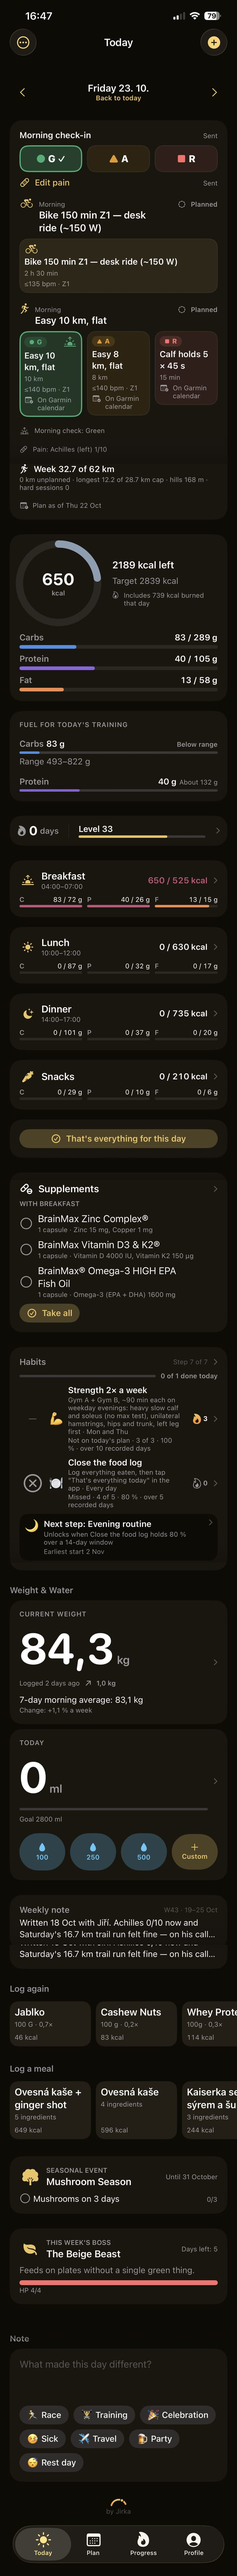
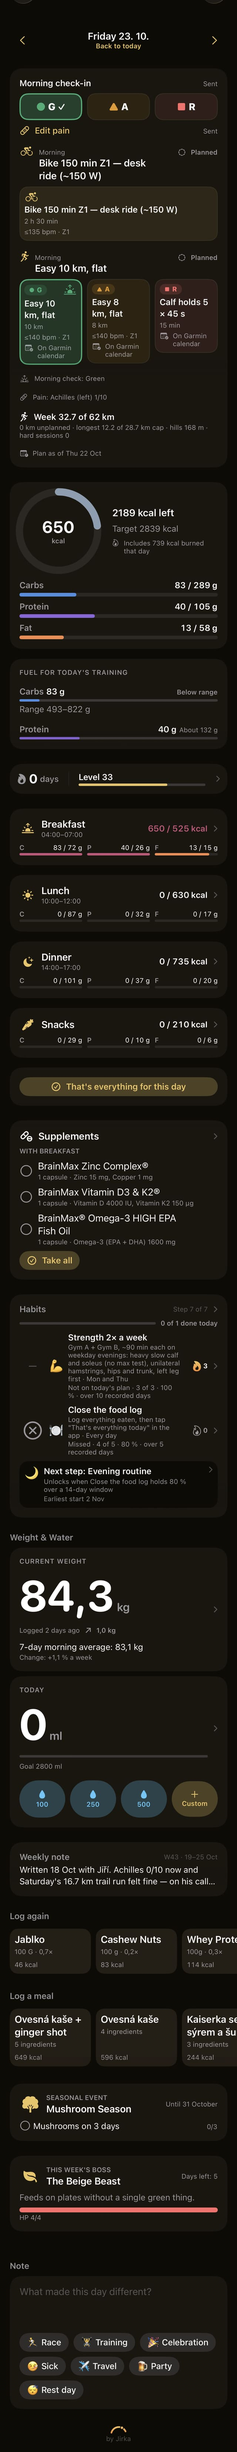
feat: NARUZU video and gallery, Jirka's Arc full-day scroll, 24DS photos and video, CV print link

diff --git a/scripts/projects.js b/scripts/projects.js
@@ -12,9 +12,9 @@ const PROJECTS = [
     status: 'in-progress',
     kind: { en: 'Indoor cycling app', cs: 'Aplikace pro indoor cycling', es: 'App de ciclismo indoor' },
     details: {
-      en: 'NARUZU is still in active development: the core ride loop, Bluetooth, GPX riding, structured workouts and the customisable HUD work today, and the iPhone version comes later. It is a private project, so there is no public repository; the screenshots show the current state of the Windows build.',
-      cs: 'NARUZU je stále v aktivním vývoji: základní jízda, Bluetooth, jízda po GPX, strukturované tréninky a nastavitelné HUD už fungují, verze pro iPhone přijde později. Je to soukromý projekt, takže veřejný repozitář neexistuje; snímky ukazují aktuální stav verze pro Windows.',
-      es: 'NARUZU sigue en desarrollo activo: el bucle de salida, Bluetooth, rodaje con GPX, entrenamientos estructurados y el HUD personalizable ya funcionan; la versión para iPhone llegará más adelante. Es un proyecto privado, así que no hay repositorio público; las capturas muestran el estado actual de la versión de Windows.'
+      en: 'NARUZU is still in active development, and it is a private project, so there is no public repository. The core ride loop, Bluetooth trainer and heart-rate pairing, GPX riding, structured workouts and the customisable HUD work today; the iPhone version comes later. The home screen opens on a featured climb such as Praděd, the garage lets you dress the rider and pick the bike, a loading screen shows the climb profile while the world is prepared, and then you ride. Progress keeps levels, XP, challenges and the globe of countries you have ridden. The gallery below shows the current state of the Windows build, and the video is a short tour.',
+      cs: 'NARUZU je stále v aktivním vývoji a je to soukromý projekt, takže veřejný repozitář neexistuje. Základní jízda, párování Bluetooth trenažéru a hrudního pásu, jízda po GPX, strukturované tréninky a nastavitelné HUD už fungují; verze pro iPhone přijde později. Domovská obrazovka se otevře vybraným stoupáním, třeba Pradědem, v garáži oblečete jezdce a vyberete kolo, načítací obrazovka ukáže profil stoupání, zatímco se připravuje svět, a pak se jede. Progress drží levely, XP, výzvy a glóbus projetých zemí. Galerie níže ukazuje aktuální stav verze pro Windows a video je krátká prohlídka.',
+      es: 'NARUZU sigue en desarrollo activo y es un proyecto privado, así que no hay repositorio público. El bucle de salida, el emparejamiento del rodillo Bluetooth y la banda de pulso, el rodaje con GPX, los entrenamientos estructurados y el HUD personalizable ya funcionan; la versión para iPhone llegará más adelante. La pantalla de inicio se abre con un ascenso destacado, como Praděd, en el garaje vistes al ciclista y eliges la bici, una pantalla de carga muestra el perfil del ascenso mientras se prepara el mundo, y después se rueda. Progress guarda niveles, XP, retos y el globo de países recorridos. La galería de abajo muestra el estado actual de la versión de Windows y el vídeo es un recorrido corto.'
     },
     title: 'NARUZU',
     subtitle: {
@@ -32,10 +32,16 @@ const PROJECTS = [
       cs: ['Chytrý trenažér a tepové senzory, živý výkon, kadence a tepové zóny', 'Slavná stoupání jako Alpe d\'Huez, volná jízda po vlastních GPX trasách a strukturované tréninky', 'Nastavitelné HUD, jezdci kolem, osobní ghosti a lokální segmenty', 'XP, levely, výzvy a glóbus projetých zemí'],
       es: ['Rodillo inteligente y sensores de pulso, con potencia, cadencia y zonas de pulso en vivo', 'Ascensos famosos como Alpe d\'Huez, rodaje libre con tus rutas GPX y entrenamientos estructurados', 'HUD personalizable, ciclistas cercanos, ghosts personales y segmentos locales', 'XP, niveles, retos y un globo de los países recorridos']
     },
+    video: { id: '_H9zhEoG7vc', url: 'https://youtu.be/_H9zhEoG7vc', poster: '../images/projects/naruzu-video.jpg' },
     images: [
-      // TODO(owner): a newer menu screenshot is coming; it replaces the progress shot below.
-      { src: '../images/projects/naruzu-ride.jpg', alt: { en: 'NARUZU ride view: a road with live speed, power, cadence and heart-rate HUD, a minimap and ride controls', cs: 'Jízda v NARUZU: silnice s živým HUD (rychlost, výkon, kadence, tep), minimapou a ovládáním jízdy', es: 'Vista de salida en NARUZU: una carretera con HUD en vivo (velocidad, potencia, cadencia, pulso), minimapa y controles' } },
-      { src: '../images/projects/naruzu-progress.jpg', alt: { en: 'NARUZU Progress screen: level, XP and recent rides next to the main menu', cs: 'Obrazovka Progress v NARUZU: level, XP a poslední jízdy vedle hlavního menu', es: 'Pantalla Progress de NARUZU: nivel, XP y salidas recientes junto al menú principal' } }
+      { src: '../images/projects/naruzu-menu.jpg', alt: { en: 'NARUZU main menu with the featured Praděd climb', cs: 'Hlavní menu NARUZU s vybraným stoupáním na Praděd', es: 'Menú principal de NARUZU con el ascenso destacado a Praděd' } },
+      { src: '../images/projects/naruzu-garage.jpg', alt: { en: 'NARUZU garage with the rider on the bike', cs: 'Garáž v NARUZU s jezdcem na kole', es: 'Garaje de NARUZU con el ciclista en la bici' } },
+      { src: '../images/projects/naruzu-loading.jpg', alt: { en: 'NARUZU loading screen with the climb profile', cs: 'Načítací obrazovka NARUZU s profilem stoupání', es: 'Pantalla de carga de NARUZU con el perfil del ascenso' } },
+      { src: '../images/projects/naruzu-ride-1.jpg', alt: { en: 'Riding in NARUZU', cs: 'Jízda v NARUZU', es: 'Rodando en NARUZU' } },
+      { src: '../images/projects/naruzu-preview.jpg', alt: { en: 'NARUZU rider and bike preview', cs: 'Náhled jezdce a kola v NARUZU', es: 'Vista previa del ciclista y la bici en NARUZU' } },
+      { src: '../images/projects/naruzu-ride-2.jpg', alt: { en: 'Riding in NARUZU, second view', cs: 'Jízda v NARUZU, druhý záběr', es: 'Rodando en NARUZU, segunda vista' } },
+      { src: '../images/projects/naruzu-ride-3.jpg', alt: { en: 'Riding in NARUZU, third view', cs: 'Jízda v NARUZU, třetí záběr', es: 'Rodando en NARUZU, tercera vista' } },
+      { src: '../images/projects/naruzu-ride-4.jpg', alt: { en: 'Riding in NARUZU, fourth view', cs: 'Jízda v NARUZU, čtvrtý záběr', es: 'Rodando en NARUZU, cuarta vista' } }
     ]
   },
   {
@@ -293,19 +299,19 @@ const VAULT_AUTOMATIONS = [
 const PROJECTS_UI = {
   en: {
     vaultPrivate: 'Private vault — it holds personal data',
-    details: 'Details', close: 'Close', repo: 'View on GitHub', highlights: 'Highlights', screenshots: 'Screenshots', dragHint: 'Drag or scroll to see the whole day',
+    details: 'Details', close: 'Close', repo: 'View on GitHub', highlights: 'Highlights', screenshots: 'Screenshots', dragHint: 'Drag or scroll to see the whole day', watch: 'Watch the video',
     viewer: 'Image viewer', prev: 'Previous image', next: 'Next image',
     status: { 'in-progress': 'In development', 'in-use': 'In use', done: 'Finished' }
   },
   cs: {
     vaultPrivate: 'Soukromý vault — obsahuje osobní data',
-    details: 'Podrobnosti', close: 'Zavřít', repo: 'Zobrazit na GitHubu', highlights: 'Hlavní body', screenshots: 'Snímky obrazovky', dragHint: 'Tažením nebo rolováním projdete celý den',
+    details: 'Podrobnosti', close: 'Zavřít', repo: 'Zobrazit na GitHubu', highlights: 'Hlavní body', screenshots: 'Snímky obrazovky', dragHint: 'Tažením nebo rolováním projdete celý den', watch: 'Přehrát video',
     viewer: 'Prohlížeč obrázků', prev: 'Předchozí obrázek', next: 'Další obrázek',
     status: { 'in-progress': 'Ve vývoji', 'in-use': 'V používání', done: 'Dokončeno' }
   },
   es: {
     vaultPrivate: 'Vault privado: contiene datos personales',
-    details: 'Detalles', close: 'Cerrar', repo: 'Ver en GitHub', highlights: 'Puntos clave', screenshots: 'Capturas', dragHint: 'Arrastra o desplaza para ver todo el día',
+    details: 'Detalles', close: 'Cerrar', repo: 'Ver en GitHub', highlights: 'Puntos clave', screenshots: 'Capturas', dragHint: 'Arrastra o desplaza para ver todo el día', watch: 'Ver el vídeo',
     viewer: 'Visor de imágenes', prev: 'Imagen anterior', next: 'Imagen siguiente',
     status: { 'in-progress': 'En desarrollo', 'in-use': 'En uso', done: 'Terminado' }
   }
@@ -327,6 +333,13 @@ function projectImages(project) {
   return project.images || (project.image ? [project.image] : []);
 }
 
+// A video is shown as its YouTube poster with a play badge; the click opens YouTube in a new tab.
+function videoPoster(video, title, ui) {
+  return `<a class="video-poster" href="${video.url}" target="_blank" rel="noopener noreferrer" aria-label="${ui.watch} — ${title}">
+    <img src="${video.poster}" alt="" loading="lazy" decoding="async"><span class="video-poster__play" aria-hidden="true">▶</span>
+    <span class="video-poster__label">${ui.watch} ↗</span></a>`;
+}
+
 function statusPill(project, ui) {
   return project.status
     ? `<span class="project-status project-status--${project.status}">${ui.status[project.status]}</span>`
@@ -337,8 +350,9 @@ function renderProjectCard(project, lang) {
   const ui = PROJECTS_UI[lang];
   let media = '';
   if (project.images) {
-    // the card preview shows at most two shots; the full set opens in the modal
-    media = `<div class="project-card__gallery">${project.images.slice(0, 2).map(img =>
+    // the card preview shows at most two items (the video first, when there is one); the full set opens in the modal
+    const lead = project.video ? `<figure class="project-card__media project-card__media--video">${videoPoster(project.video, project.title, ui)}</figure>` : '';
+    media = `<div class="project-card__gallery">${lead}${project.images.slice(0, project.video ? 1 : 2).map(img =>
       `<figure class="project-card__media"><img src="${img.src}" alt="${pick(img.alt, lang)}" loading="lazy" decoding="async"></figure>`
     ).join('')}</div>`;
   } else if (project.image) {
@@ -426,6 +440,7 @@ function openProject(id) {
           <img src="${project.scroll.src}" alt="" draggable="false" loading="lazy" decoding="async">
         </div>
         <p class="scroll-shot__hint">${ui.dragHint}</p>` : ''}
+      ${project.video ? `<div class="project-modal__video">${videoPoster(project.video, project.title, ui)}</div>` : ''}
       ${shots.length ? `<h3 class="project-modal__sub">${ui.screenshots}</h3>
         <div class="project-modal__shots">${shots.map(s =>
           `<figure><img src="${s.src}" alt="${pick(s.alt, lang)}" loading="lazy" decoding="async"></figure>`).join('')}</div>` : ''}

diff --git a/scripts/posts.js b/scripts/posts.js
@@ -4,6 +4,9 @@ const BLOG_POSTS = [
     date: '2026-10-04',
     category: 'Running',
     stravaUrl: 'https://www.strava.com/activities/20443296331',
+    youtubeUrl: 'https://youtu.be/yvaRQWrZOGo',
+    coverPhoto: '../images/events/24DS2026/DSC_5353.jpg',
+    photos: ['../images/events/24DS2026/DSC_5353.jpg', '../images/events/24DS2026/DSC_5345.jpg', '../images/events/24DS2026/DSC_4080.jpg', '../images/events/24DS2026/DSC_4083.jpg'],
     title: {
       en: '24DS: 132 km, 7,400 m and 5th Place — Nine Laps Up Dlouhé Stráně',
       cs: '24DS: 132 km, 7 400 m a 5. místo — devět kol na Dlouhé stráně',
@@ -566,10 +569,14 @@ function openPost(id) {
     ? `<a class="post-modal-strava-btn" href="${escapeHtml(post.stravaUrl)}" target="_blank" rel="noopener noreferrer">${escapeHtml({ en: 'View on Strava →', cs: 'Zobrazit na Stravě →', es: 'Ver en Strava →' }[lang] || 'View on Strava →')}</a>`
     : '';
 
+  const youtubeHtml = post.youtubeUrl
+    ? `<a class="post-modal-strava-btn" href="${escapeHtml(post.youtubeUrl)}" target="_blank" rel="noopener noreferrer">${escapeHtml({ en: 'Watch the video →', cs: 'Přehrát video →', es: 'Ver el vídeo →' }[lang] || 'Watch the video →')}</a>`
+    : '';
+
   const catText = CATEGORY_MAP[post.category] ? (CATEGORY_MAP[post.category][lang] || CATEGORY_MAP[post.category].en) : post.category;
   document.getElementById('post-modal-title').textContent = post.title[lang] || post.title.en;
   document.getElementById('post-modal-meta').textContent = `${post.date} · ${catText}`;
-  document.getElementById('post-modal-body').innerHTML = photosHtml + (post.body[lang] || post.body.en) + stravaHtml;
+  document.getElementById('post-modal-body').innerHTML = photosHtml + (post.body[lang] || post.body.en) + stravaHtml + youtubeHtml;
 
   backdrop.classList.add('open');
   document.body.classList.add('modal-open');

diff --git a/scripts/cv.js b/scripts/cv.js
@@ -95,17 +95,17 @@ const CV_EXPERIENCE = [
       en: [
         'Developer in a team of 5–7 people, working mainly in .NET.',
         'Introduced Keycloak into our solutions.',
-        `Main point of contact between Monet+ and Palacký University (UPOL) — <a href="${UPOL_COOPERATION_URL}" target="_blank" rel="noopener noreferrer">university cooperation</a>.`
+        `Main point of contact between Monet+ and Palacký University (UPOL) — <a href="${UPOL_COOPERATION_URL}" target="_blank" rel="noopener noreferrer">university cooperation</a><span class="cv-print-url"> (${UPOL_COOPERATION_URL})</span>.`
       ],
       cs: [
         'Vývojář v týmu o 5–7 lidech, převážně v .NET.',
         'Zavedl jsem do našich řešení Keycloak.',
-        `Hlavní kontaktní osoba mezi Monet+ a Univerzitou Palackého (UPOL) — <a href="${UPOL_COOPERATION_URL}" target="_blank" rel="noopener noreferrer">spolupráce s univerzitami</a>.`
+        `Hlavní kontaktní osoba mezi Monet+ a Univerzitou Palackého (UPOL) — <a href="${UPOL_COOPERATION_URL}" target="_blank" rel="noopener noreferrer">spolupráce s univerzitami</a><span class="cv-print-url"> (${UPOL_COOPERATION_URL})</span>.`
       ],
       es: [
         'Desarrollador en un equipo de 5–7 personas, principalmente en .NET.',
         'Introduje Keycloak en nuestras soluciones.',
-        `Persona de contacto principal entre Monet+ y la Universidad Palacký (UPOL) — <a href="${UPOL_COOPERATION_URL}" target="_blank" rel="noopener noreferrer">cooperación con universidades</a>.`
+        `Persona de contacto principal entre Monet+ y la Universidad Palacký (UPOL) — <a href="${UPOL_COOPERATION_URL}" target="_blank" rel="noopener noreferrer">cooperación con universidades</a><span class="cv-print-url"> (${UPOL_COOPERATION_URL})</span>.`
       ]
     },
     note: {

diff --git a/assets/styles/projects.css b/assets/styles/projects.css
@@ -582,3 +582,21 @@ body.modal-open { overflow: hidden; }
   .lightbox__nav--prev { grid-column: 1; justify-self: start; margin: 0 0 16px 16px; }
   .lightbox__nav--next { grid-column: 1; justify-self: end; margin: 0 16px 16px 0; }
 }
+
+/* video poster: the YouTube thumbnail with a play badge, opens YouTube in a new tab */
+.video-poster { position: relative; display: block; width: 100%; height: 100%; color: #fff; text-decoration: none; }
+.video-poster img { display: block; width: 100%; height: 100%; object-fit: cover; }
+.video-poster__play {
+  position: absolute; top: 50%; left: 50%; transform: translate(-50%, -50%);
+  display: grid; place-items: center; width: 64px; height: 64px; border-radius: 50%;
+  background: var(--accent); color: #fff; font-size: 1.4rem; padding-left: 4px;
+  box-shadow: 0 6px 24px rgba(0, 0, 0, .5); transition: transform .2s var(--ease-out);
+}
+.video-poster:hover .video-poster__play { transform: translate(-50%, -50%) scale(1.08); }
+.video-poster:focus-visible { outline: 2px solid var(--accent-text); outline-offset: -2px; }
+.video-poster__label {
+  position: absolute; left: 10px; bottom: 10px; padding: 4px 10px; border-radius: 999px;
+  background: rgba(0, 0, 0, .65); font-size: .8rem;
+}
+.project-card__media--video { position: relative; }
+.project-modal__video { aspect-ratio: 16 / 9; margin: 18px 0 4px; border: 1px solid var(--border); border-radius: var(--radius-sm); overflow: hidden; background: var(--surface-2); }

diff --git a/assets/styles/cv.css b/assets/styles/cv.css
@@ -113,6 +113,7 @@
    The tinted rail is painted on the root so it also fills those margins. */
 @page { size: A4; margin: 14mm 0; }
 @page :first { margin: 0 0 14mm; }
+.cv-print-url { display: none; }
 @media print {
   .navbar, #navbar-placeholder, #footer-placeholder, .bg-scene, .cv-print, .cv-downloads, .skip-link, .footer { display: none !important; }
   * { -webkit-print-color-adjust: exact; print-color-adjust: exact; }
@@ -166,6 +167,7 @@
   .cv-cert a, .cv-cert > div { padding: 2mm 0; grid-template-columns: 30mm 1fr auto; }
   .cv-cert__cta { display: none; }
   .cv-bullets { max-width: none; font-size: 9.5pt; }
+  .cv-print-url { display: inline; }
   .cv-bullets a, .cv-projects__link { text-decoration: underline; }
   .cv-projects__link { margin-top: 3mm; }
   [data-cv-print="paper"] .cv-projects__link::after { content: " " attr(href); }

diff --git a/assets/styles/blog.css b/assets/styles/blog.css
@@ -106,6 +106,7 @@
   transition: background .18s var(--ease-out), transform .14s var(--ease-out);
 }
 
+.post-modal-strava-btn + .post-modal-strava-btn { margin-left: 10px; }
 .post-modal-strava-btn:hover { background: #e04a00; }
 .post-modal-strava-btn:active { transform: scale(0.97); }
 
